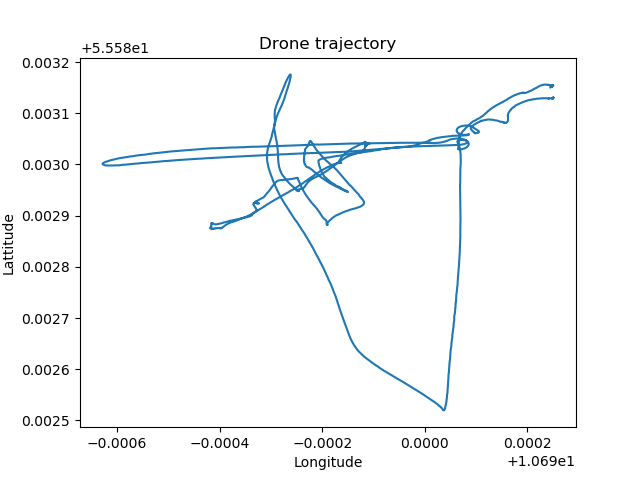
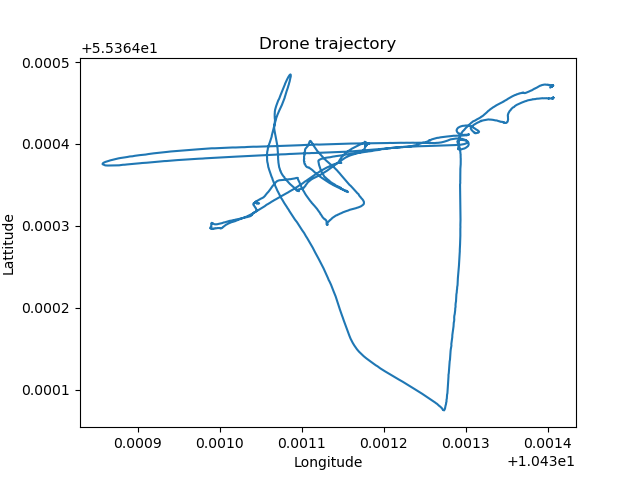
Added calculations of fresnel and margin budget calc

diff --git a/idt_module_2_materials/exercise_nmea_data/nmea_read.py b/idt_module_2_materials/exercise_nmea_data/nmea_read.py
@@ -39,40 +39,7 @@ class nmea_line:
     # Class for parsing a NMEA 0183 line
     def __init__(self, line):
         self.line = line.split(',')  # split into comma separated list
-        # https://www.gpsworld.com/what-exactly-is-gps-nmea-data/
-        # The $GPGGA is a basic GPS NMEA message. There are alternative and companion NMEA messages that provide similar or additional information.
-        # self.columns = ["talker_type", "utc_time", "lattitude", "lattitude_direction", "longitude", "longitude_direction", "quality", "n_sattelites","hdop","antenna_altitude", "altitude_unit", "geoidal_separation","correction_age","correction_station_id","checksum"]
-        # self.talker_type = self.__getColumnValue(0,line)
-        # #$GPGSA – Detailed GPS DOP and detailed satellite tracking information (eg. individual satellite numbers). $GNGSA for GNSS receivers.
-        # #$GPGSV – Detailed GPS satellite information such as azimuth and elevation of each satellite being tracked. $GNGSV for GNSS receivers.
-        # #$GPVTG – Speed over ground and tracking offset.
-        # #$GPGST – Estimated horizontal and vertical precision. $GNGST for GNSS receivers.
-        # self.utc_time = self.__getColumnValue(1,line)
-        # self.lattitude = self.__getColumnValue(2,line) # DDMM.MMMMM format
-        # self.lattitude_direction = self.__getColumnValue(3,line) # N or S
-        # self.longitude = self.__getColumnValue(4,line) # DDMM.MMMMM format
-        # self.longitude_direction = self.__getColumnValue(5,line) # W or E
-        # self.quality = self.__getColumnValue(6,line) # 1= uncorrected coordinate,
-        # #2 = Differentially correct coordinate (e.g., WAAS, DGPS)
-        # #4 = RTK Fix coordinate (centimeter precision)
-        # #5 = RTK Float (decimeter precision.
-        # self.n_sattelites = self.__getColumnValue(7,line)
-        # self.hdop = self.__getColumnValue(8,line) # horizontal dilution precision
-        # self.antenna_altitude = self.__getColumnValue(9,line)
-        # self.altitude_unit = self.__getColumnValue(10,line)
-        # self.geoidal_separation = self.__getColumnValue(11,line) # geoidal separation (subtract this from the altitude of the antenna to arrive at the Height Above Ellipsoid (HAE).
-        # self.geoidal_unit = self.__getColumnValue(12,line)
-        # self.correction_age = self.__getColumnValue(13,line)
-        # self.correction_station_id = self.__getColumnValue(14,line)
-        # #self.checksum = self.__getColumnValue(15,line) TODO make this work, currently the checksum is a part of the station id
 
-    # def __getColumnValue(self,index, line):
-    #   result = ""
-    #   try:
-    #     result = line[index]
-    #   except Exception as e:
-    #     print(e)
-    #   return result
     def getNmeaMsg(self):
         return self.msg
 
@@ -177,13 +144,14 @@ if __name__ == "__main__":
             gdop_time.append(temp)
             gdop.append(math.sqrt(hdop**2 + vdop**2))
 
-    print("Plotting...")
-    showPlot = False
+    showPlot = True
     if showPlot == True:
+        print("Plotting...")
         # 1.  Altitude above Mean Sea Level with respect to time during the drone flight.
         plt.figure(1)
         plt.xlabel("Time UTC")
         plt.ylabel("Antenna altitude above/below mean sea level")
+        plt.ylim([0, 30])
         plt.plot(time, hae)
         plt.savefig('height_above_mean_sea_level.png')
 
@@ -191,6 +159,8 @@ if __name__ == "__main__":
         plt.figure(2)
         plt.xlabel("Time UTC")
         plt.ylabel("number of sattelites")
+        plt.ylim([0, 15])
+
         plt.plot(time, n_sattelites)
         plt.savefig('number_of_sattelites.png')
 
@@ -199,6 +169,7 @@ if __name__ == "__main__":
         plt.title("Drone trajectory")
         plt.xlabel("Longitude")
         plt.ylabel("Lattitude")
+        # plt.ticklabel_format(useOffset=False)
         plt.plot(longitude, lattitude, marker=" ")
         plt.savefig('drone_trajectory.png')
 

diff --git a/idt_module_3_materials/module3.py b/idt_module_3_materials/module3.py
@@ -1,0 +1,106 @@
+#!/usr/bin/env python3
+import math
+import matplotlib.pyplot as plt
+from matplotlib.patches import Ellipse
+
+
+def getFresnel(d1, d2, frequency):
+    """_summary_
+
+    Args:
+        d1 (_type_): Distance from Tx to obstacle in km
+        d2 (_type_): Distance from obstacle to Rx in km
+        frequency (_type_): Frequency in GHz
+
+    Returns:
+        _type_: _description_
+    """
+    return (17.3 * (math.sqrt((d1*d2)/(frequency * (d1+d2)))))/1000
+
+
+def plotFresnelZones(d1, d2, xlim=[-1, 11], ylim=[-0.05, 0.05], showPlot=False):
+    plt.figure()
+    plt.title('Fresnel zones')
+    ax = plt.gca()
+    print("0.915GHz", getFresnel(d1, d2, 0.915)*1000, "m")
+    print("2.400GHz: ", getFresnel(d1, d2, 2.4)*1000, "m")
+    print("5.800GHz", getFresnel(d1, d2, 5.8)*1000, "m")
+    ellipse433 = Ellipse(xy=(5.0, 0.0), width=10, height=2*getFresnel(
+        d1, d2, 0.915), edgecolor='r', fc='None', lw=2)
+    ellipse2400 = Ellipse(xy=(5.0, 0.0), width=10, height=2*getFresnel(
+        d1, d2, 2.4), edgecolor='g', fc='None', lw=2)
+    ellipse5800 = Ellipse(xy=(5.0, 0.0), width=10, height=2*getFresnel(
+        d1, d2, 5.8), edgecolor='b', fc='None', lw=2)
+    ax.add_patch(ellipse433)
+    ax.add_patch(ellipse2400)
+    ax.add_patch(ellipse5800)
+    plt.xlim(xlim)
+    plt.ylim(ylim)
+    plt.savefig('fresnel.png')
+    if showPlot:
+        plt.show()
+
+
+def radioLinkBudget(distance, txFrequency, txPower, txLineLoss, txAntennaGain, rxLineLoss, rxAntennaGain, rxSensitivity):
+    """_summary_
+
+    Args:
+        distance (_type_): in km
+        txFrequency (_type_): transmitter frequency in MHz
+        txPower (_type_): transmitter power in mW
+        rxSensitivity (_type_): rx sensitivity in db 
+    """
+    # Tx gain is the transmitted output power + the tx line loss + antenna gain
+    txPower = 10.*math.log10(txPower)
+    txGain = txPower + txLineLoss + txAntennaGain
+    print("Tranmission gain: ", txGain)
+
+    # Link loss (free space path loss + polarization, aperture, fresnell zone, doppler effect and fading)
+    freeSpacePathLoss = - \
+        (32.4 + 20*math.log10(txFrequency) + 20*math.log10(distance))
+    linkLoss = freeSpacePathLoss
+    print("Link loss:", linkLoss)
+
+    # Reciever sensitivity (recieving antenna gain + transmission line loss, + required minimum signal power, all expressed in dB)
+    # Margin, a good rule of thumb is that the margin should at least be 30dB
+    rxGain = rxSensitivity + rxLineLoss + rxAntennaGain
+    margin = txGain + linkLoss - rxGain
+    print("Margin:", margin)
+
+
+# 2.4GHz C2 link: https://ardupilot.org/copter/docs/common-sik-telemetry-radio.html
+# https://www.silabs.com/wireless/proprietary/si10xx-sub-ghz-mcps
+# Receiver sensitivity to -121 dBm
+# Transmition power up to 100mW
+# air data rates up to 250kbps
+# 2dBi antenna rx/tx
+# 15 m of transmission line to the antenna LMR-400 coaxial cable, which will give you about 2 dB loss at 433 MHz for each run.
+
+
+# 433MHz telemetry link
+print("###########link budget 433Mhz###########")
+radioLinkBudget(2, 433, 100, -1.5, 2, -1.5, 2, -126)
+
+print("###########link budget 2400Mhz###########")
+radioLinkBudget(2, 2400, 100, -1.5, 2, -1.5, 2, -126)
+
+# 5.8GHz video downlink
+print("###########link budget 5800Mhz###########")
+radioLinkBudget(2, 5800, 100, -1.5, 2, -1.5, 2, -126)
+
+# Example of fresnel zones
+print("simple example:")
+plotFresnelZones(3, 7)
+
+# example: Drone 50m above ground, operator 0.5m, distance between 400m
+print("Clearence @ 400m:")
+C = math.sqrt(0.0005**2 + 0.400**2)
+D = math.sqrt(0.0495**2 + C**2)
+plotFresnelZones(D/2., D/2., ylim=[-0.01, 0.01])
+
+
+# Example: Same as above but at 200m and a building at 100m
+print("Clearence @ 200m:")
+C = math.sqrt(0.0005**2 + 0.200**2)
+D = math.sqrt(0.0495**2 + C**2)
+plotFresnelZones(D/2., D/2., ylim=[-0.01, 0.01])

diff --git a/idt_module_2_materials/exercise_utm/utm_test.py b/idt_module_2_materials/exercise_utm/utm_test.py
@@ -57,6 +57,8 @@ def getLattitudeConvertionError(lattitude, longitude, lattitude_difference):
     # calculate the error using Great Circle Distance Formula
     calc_distance = 2*asin(sqrt((sin((lattitude*(pi/180)-lattitude_new*(pi/180))/2))**2+cos(
         lattitude*(pi/180))*cos(lattitude_new*(pi/180))*(sin((longitude*(pi/180)-longitude_new*(pi/180))/2))**2))
+    # Great circle distance can be likewise be expressed in radians by defining the distance to be the angle subtended by the
+    # arc at the center of the earth. Since by definition, one nautical mile subtends one minute (=1/60 degree) of arc, we have:
     calc_distance = calc_distance*((180*60)/pi)
     calc_distance = calc_distance*1852
     error = lattitude_difference - calc_distance
@@ -80,7 +82,7 @@ def getLongitudeConvertionError(lattitude, longitude, longitude_difference):
     # calculate the error using Great Circle Distance Formula
     calc_distance = 2*asin(sqrt((sin((lattitude*(pi/180)-lattitude_new*(pi/180))/2))**2+cos(
         lattitude*(pi/180))*cos(lattitude_new*(pi/180))*(sin((longitude*(pi/180)-longitude_new*(pi/180))/2))**2))
-    calc_distance = calc_distance*(180/pi) * 60  # radians to degrees*minutes
+    calc_distance = ((180*60)/pi)*calc_distance  # radians to degrees*seconds
     calc_distance = calc_distance*1852  # Nautic mile to km
     error = longitude_difference - calc_distance
 
@@ -94,24 +96,24 @@ def exercise_4_1():
     lat1 = 55.47
     lon1 = 10.33
     print("Error @ the Drone Center")
-    getLattitudeConvertionError(lat1, lon1, 1000.)
+    getLongitudeConvertionError(lat1, lon1, 1000.)
 
     # Iceland
-    lat1 = 65.887393
-    lon1 = 10.33
+    lat1 = 55.47
+    lon1 = 12.33
     print("Error @ Iceland")
-    getLattitudeConvertionError(lat1, lon1, 1000.)
+    getLongitudeConvertionError(lat1, lon1, 1000.)
 
     # Greenland
-    lat1 = 81.988262
-    lon1 = 10.33
+    lat1 = 55.47
+    lon1 = 20.33
     print("Error @ Greenland")
 
-    getLattitudeConvertionError(lat1, lon1, 1000.)
+    getLongitudeConvertionError(lat1, lon1, 1000.)
 
     # Longitude test
     lat1 = 55.47
-    lon1 = 10.33
+    lon1 = 50.33
     print("Error Longitude Test")
     getLongitudeConvertionError(lat1, lon1, 1000.)
 
